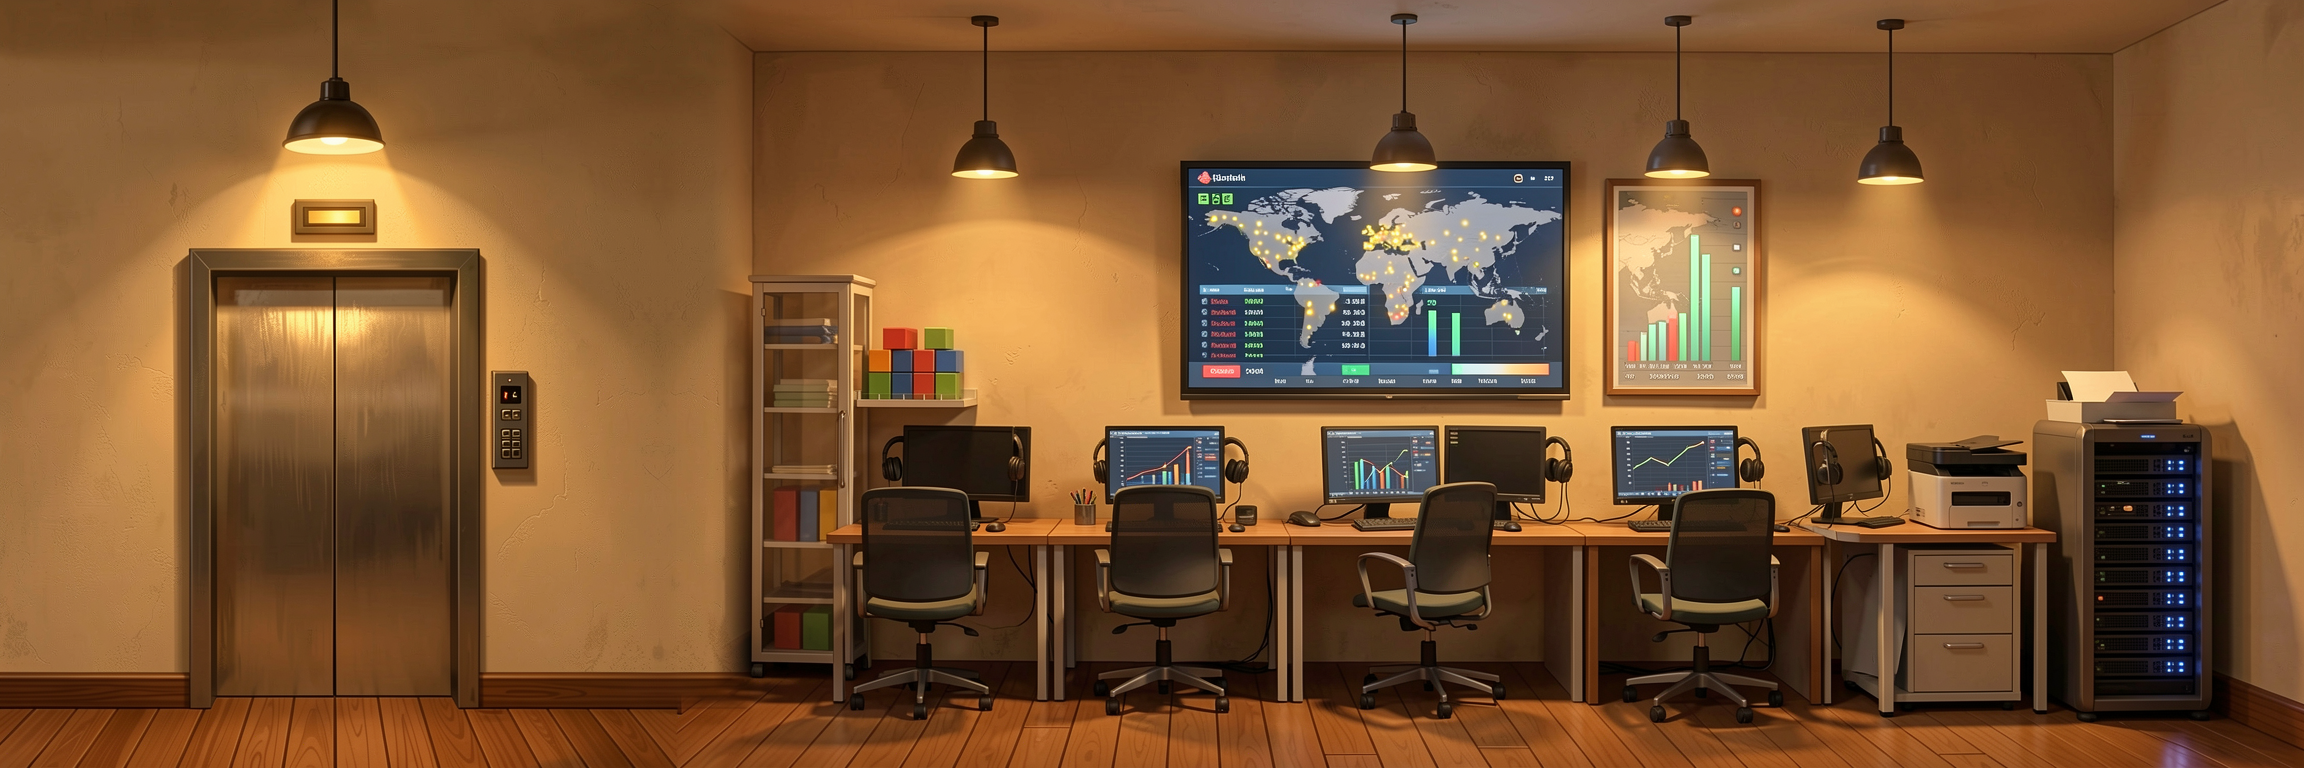
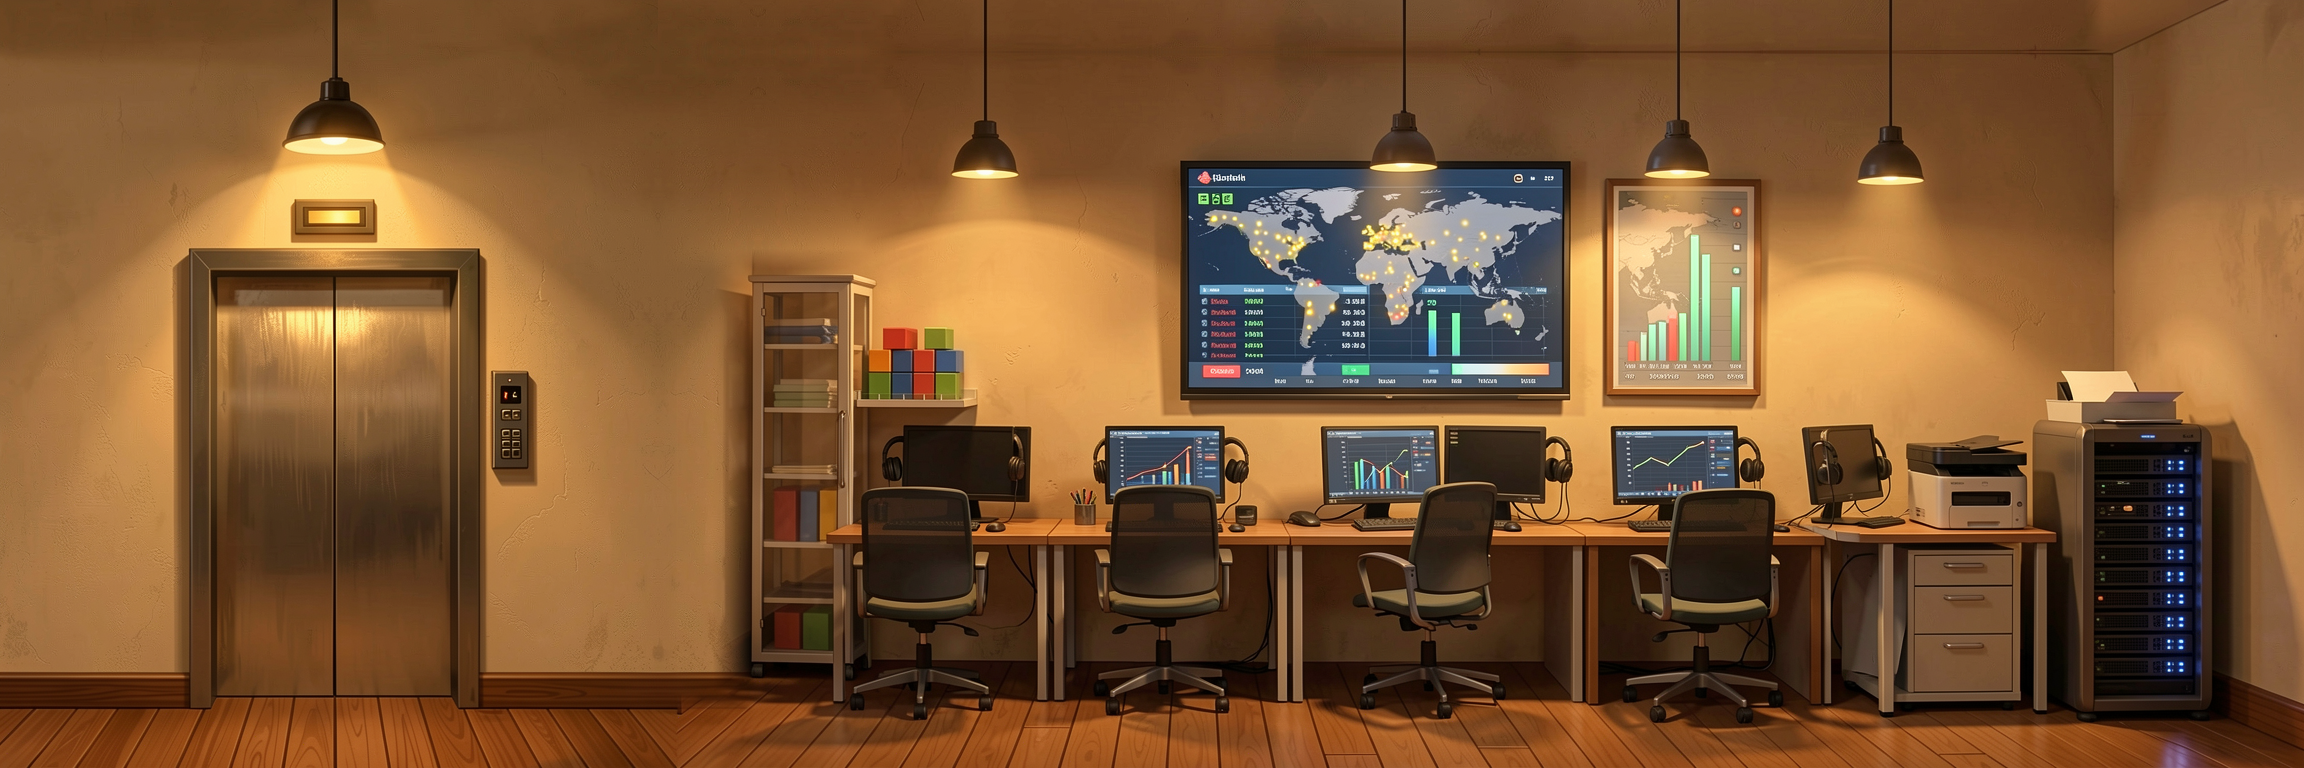
art: floor 3, the alcove's lowered ceiling taken down too
paint_rooms.py wall --ceiling mirrors the wall under a lowered ceiling up over it,
and --band can be given twice: floor 3 is now --band 752,712 --band 900,268,room
--ceiling 2104,52, which also spreads the step from the lobby's lit wall to the
back wall above the cabinet.

Changed region(s): [[0.3438, 0.0, 0.9062, 0.0625], [0.3125, 0.2812, 0.375, 0.3438], [0.3125, 0.0625, 0.3438, 0.0938]]

diff --git a/web3d/pixel/paint_rooms.py b/web3d/pixel/paint_rooms.py
@@ -213,6 +213,19 @@ def mended(src, x1, y1, side="lobby"):
     return Image.composite(fill, src, band(src.size, x1, y1, 120))
 
 
+def ceiling(src, x1, y1):
+    """A lowered ceiling the model hung over the room (floor 3's alcove): the wall under it, mirrored up over it from the
+    lobby's edge to x1, so the plaster and the lamps' cords run on to the top; faded in over 20 px below and at x1."""
+    x0, fill = round(src.height * 132 / 154), src.copy()
+    fill.paste(src.crop((0, y1, src.width, 2 * y1)).transpose(Image.FLIP_TOP_BOTTOM), (0, 0))
+    mask = Image.new("L", src.size)
+    px = mask.load()
+    for y in range(y1 + 20):
+        for x in range(x0, x1):
+            px[x, y] = round(255 * min(1, (y1 + 20 - y) / 20, (x1 - x) / 20))
+    return Image.composite(fill, src, mask)
+
+
 def paint(path, prompt, size, seed, host, init=None):
     """One candidate, kept if painted already (the model does not redraw a seed bit for bit)."""
     if path.exists():
@@ -236,13 +249,20 @@ def main():
     ap.add_argument("--host", default="http://127.0.0.1:7860")
     ap.add_argument("--src", help="retime: the dusk pick, a candidate's file name (roof_1017.png)")
     ap.add_argument("--time", choices=sorted(HOURS), help="retime: the hour to paint it at")
-    ap.add_argument("--band", help="wall: X,Y[,room], how far right and down the wall beside the lift is mended, and from which side")
+    ap.add_argument("--band", action="append", help="wall: X,Y[,room], how far right and down the wall beside the lift "
+                    "is mended, and from which side; again for another band over the first")
+    ap.add_argument("--ceiling", help="wall: X,Y, a lowered ceiling over the room to take down, to x X and row Y")
     args = ap.parse_args()
     OUT.mkdir(parents=True, exist_ok=True)
     if args.room == "wall":   # a pick whose room turned a corner beside the lift: <src>-wall.png, the rest kept as is
         src = Image.open(OUT / args.src).convert("RGB")
-        x1, y1, *side = args.band.split(",")
-        mended(src, int(x1), int(y1), *side).save(OUT / f"{Path(args.src).stem}-wall.png")
+        out = src
+        for b in args.band:
+            x1, y1, *side = b.split(",")
+            out = mended(out, int(x1), int(y1), *side)
+        if args.ceiling:
+            out = ceiling(out, *map(int, args.ceiling.split(",")))
+        out.save(OUT / f"{Path(args.src).stem}-wall.png")
         return
     if args.room == "retime":   # the same picture at another hour: <src>-<time>_<seed>.png
         init = Image.open(OUT / args.src).convert("RGB")
